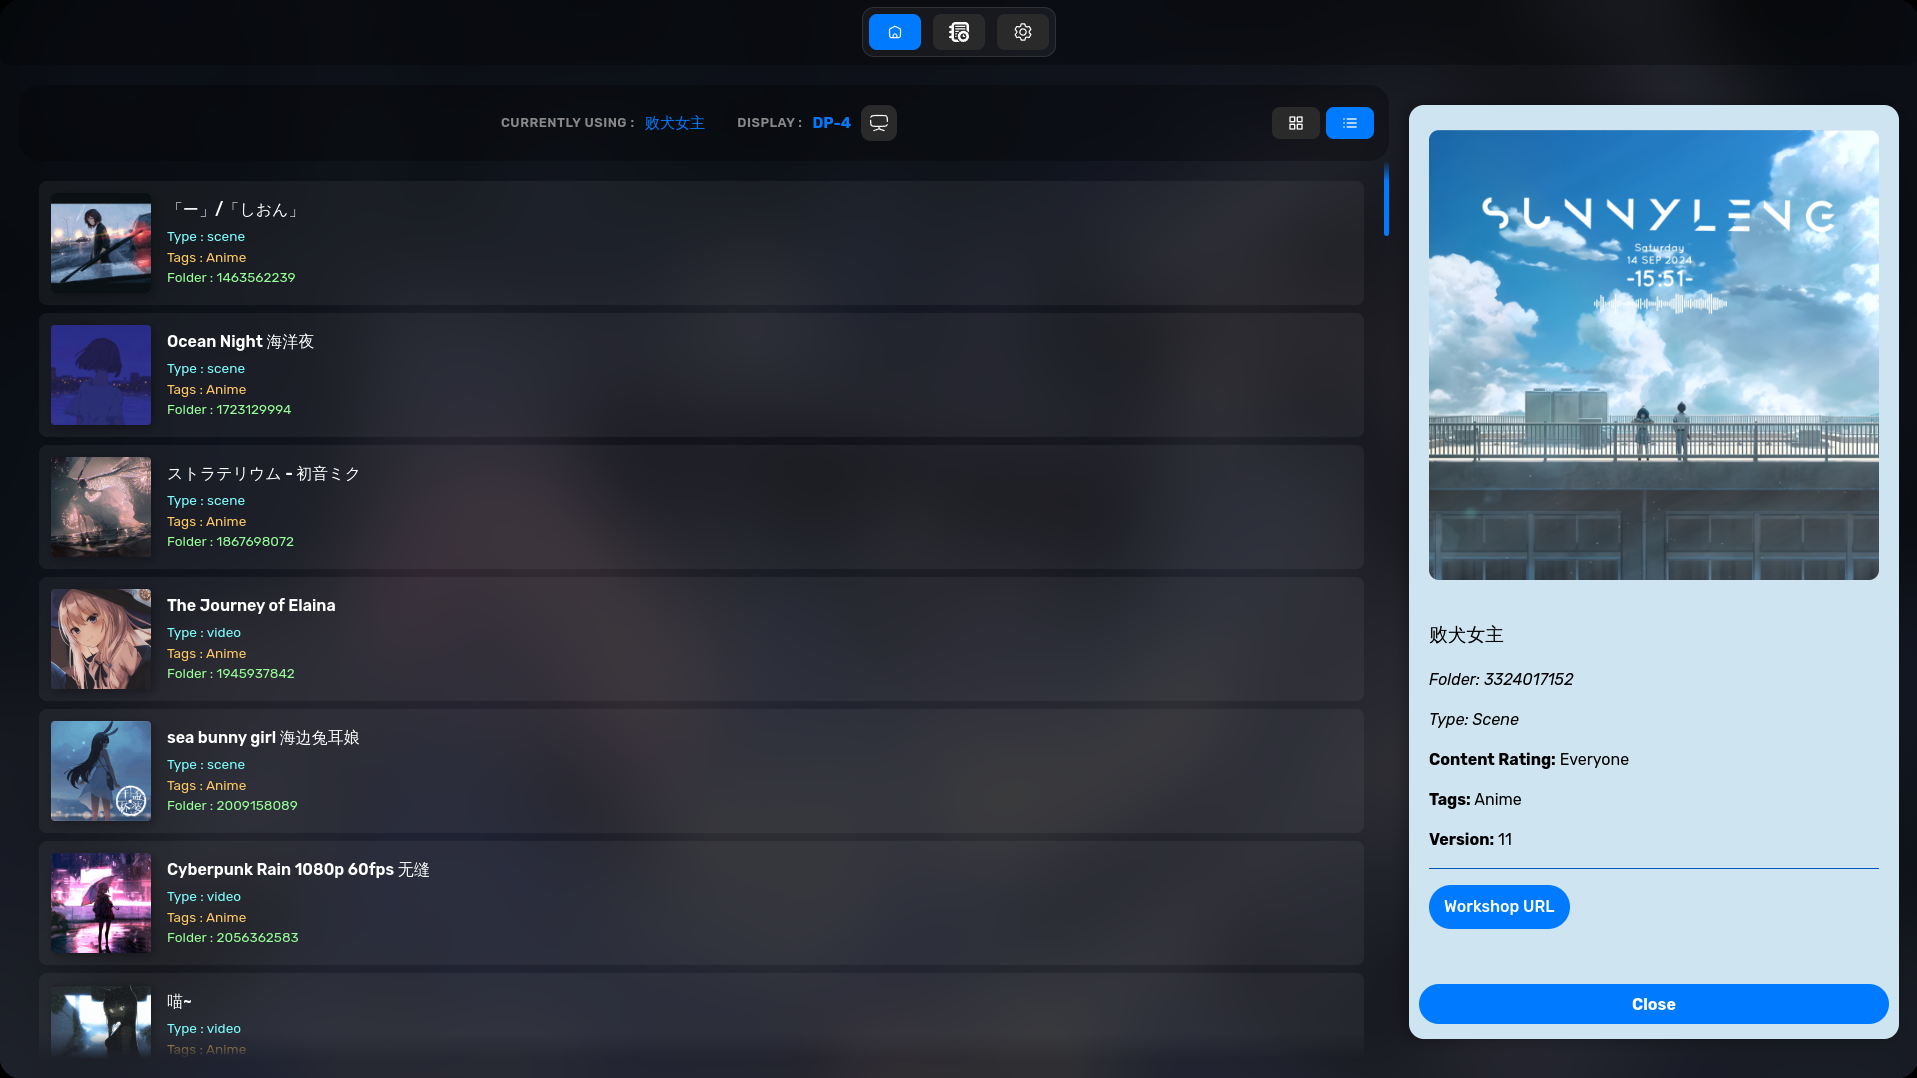
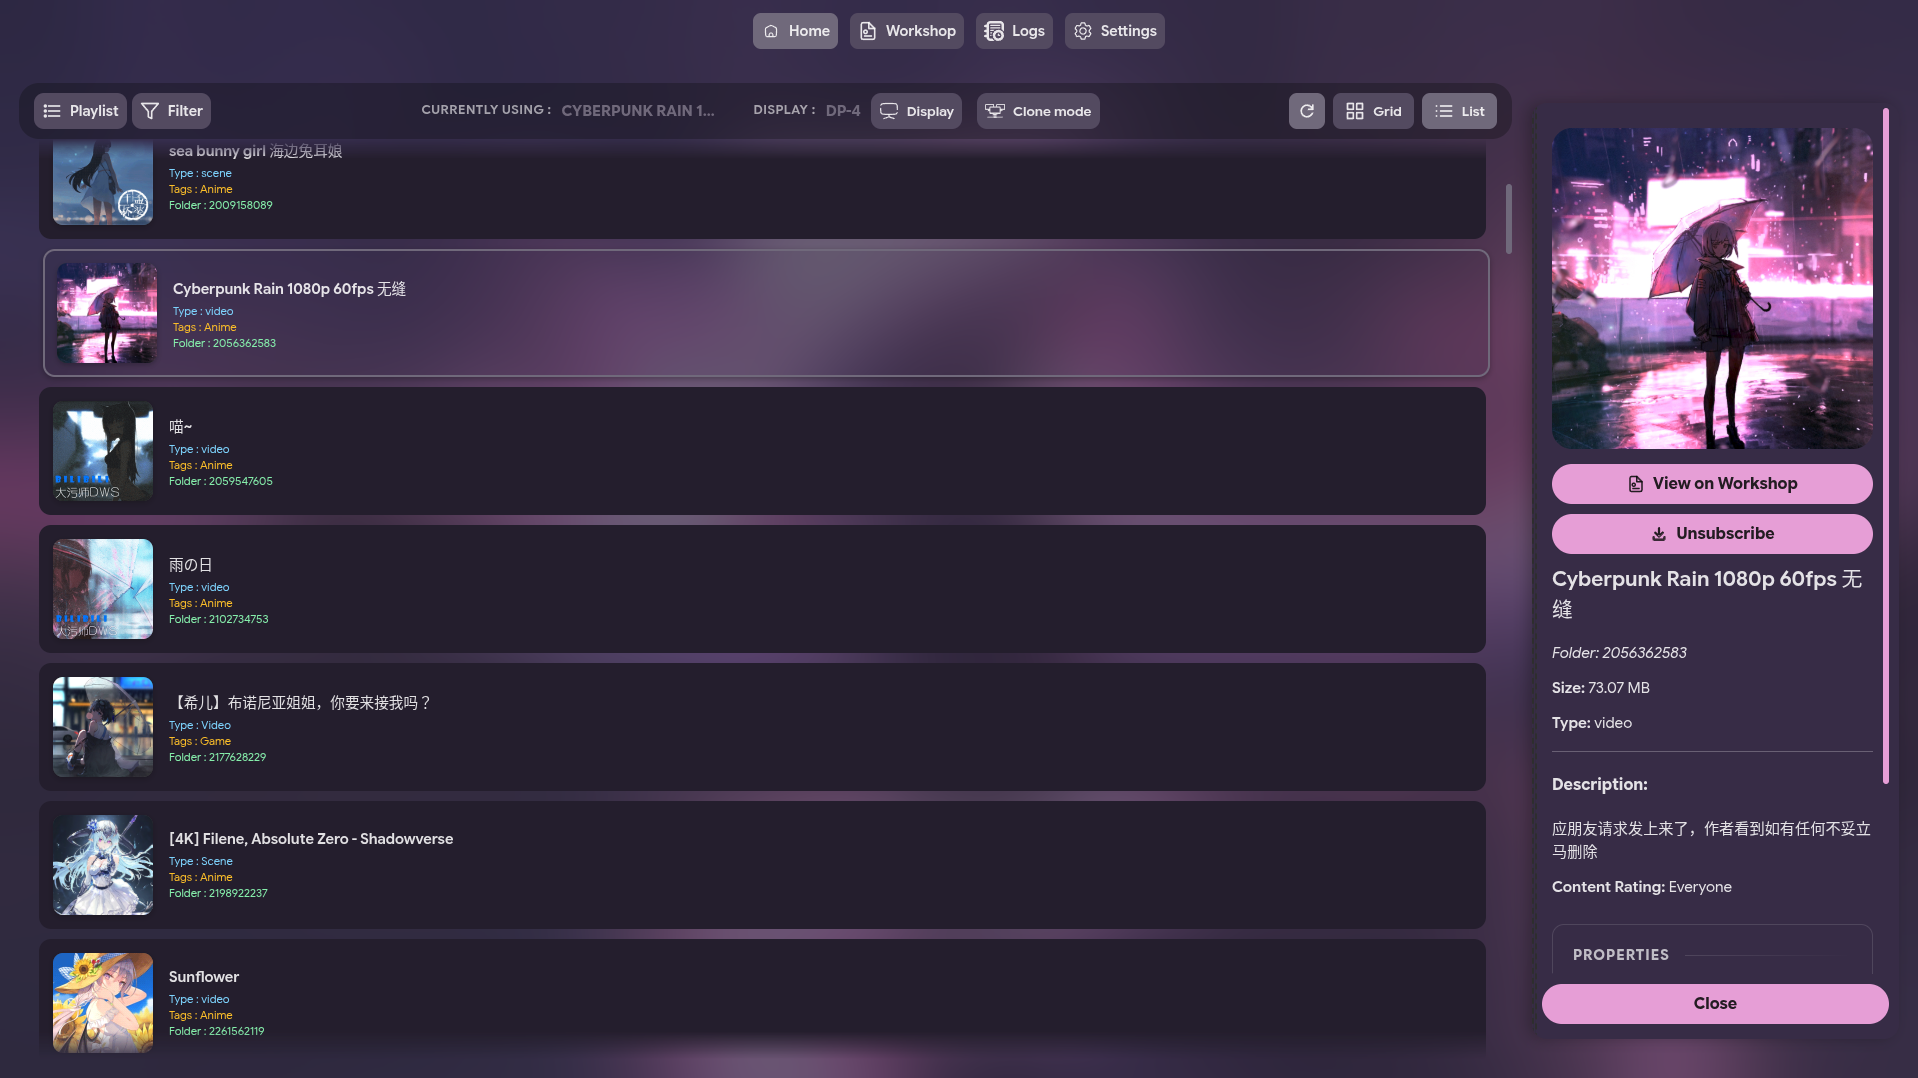
feat: Refine downloaded status class for workshop items and update README with new playlist and workshop download screenshots and feature descriptions.

diff --git a/src/frontend/svelte/components/wallpaper/WallpaperListItem.svelte b/src/frontend/svelte/components/wallpaper/WallpaperListItem.svelte
@@ -49,7 +49,7 @@
 	class="item-container"
 	class:selected
 	class:in-playlist={inPlaylist}
-	class:is-downloaded={isDownloaded}
+	class:is-downloaded={isWorkshop && isDownloaded}
 	on:click={() => onSelect(folderName, wallpaper)}
 	aria-pressed={selected}
 	in:scale={{ start: 0.95, duration: 200, easing: backOut }}

diff --git a/src/frontend/svelte/components/wallpaper/WallpaperItem.svelte b/src/frontend/svelte/components/wallpaper/WallpaperItem.svelte
@@ -59,7 +59,7 @@
 	class="wallpaper-item"
 	class:selected
 	class:in-playlist={inPlaylist}
-	class:is-downloaded={isDownloaded}
+	class:is-downloaded={isWorkshop && isDownloaded}
 	aria-pressed={selected}
 	on:click={() => onSelect(folderName, wallpaper)}
 	style="animation-delay: {10 + index * 50}ms"

diff --git a/README.md b/README.md
@@ -35,10 +35,10 @@
 - [MEMORY EFFICIENCY](#memory-efficiency)
 - [PREREQUISITES](#prerequisites)
 - [INSTALLATION](#installation)
-     - [Arch Linux (AUR)](#arch-linux-aur)
-     - [Other Distributions](#other-distributions)
+  - [Arch Linux (AUR)](#arch-linux-aur)
+  - [Other Distributions](#other-distributions)
 - [USAGE](#usage)
-     - [\[Options\]](#options)
+  - [\[Options\]](#options)
 - [BUILD FROM SOURCE](#build-from-source)
 - [DEVELOPMENT](#development)
 - [CONTRIBUTING](#contributing)
@@ -51,30 +51,42 @@
 
 ## SCREENSHOTS
 
-|            Main Window            |
-| :-------------------------------: |
+|           Main Window           |
+| :-----------------------------: |
 | ![Main Window](showcase/main.png) |
 
-|           Main Window (List)           |
-| :------------------------------------: |
+|          Main Window (List)          |
+| :----------------------------------: |
 | ![Main Window](showcase/main-list.png) |
 
-|         Display Settings         |
-| :------------------------------: |
+|        Display Settings        |
+| :----------------------------: |
 | ![Details](showcase/display.png) |
 
-| WORKSHOP (Can only search for now) |
-| :--------------------------------: |
-| ![Details](showcase/workshop.png)  |
+|            WORKSHOP            |
+| :-----------------------------: |
+| ![Details](showcase/workshop.png) |
 
-|                Settings                |
-| :------------------------------------: |
+|          PLAYLIST          |
+| :--------------------------------------: |
+| ![Details](showcase/playlist.png) |
+
+|          PLAYLIST - SETTING          |
+| :--------------------------------------: |
+| ![Details](showcase/playlist-setting.png) |
+
+|          WORKSHOP - DOWNLOADING          |
+| :--------------------------------------: |
+| ![Details](showcase/workshop-download.jpg) |
+
+|               Settings               |
+| :----------------------------------: |
 | ![Select Screen](showcase/setting.png) |
 
 ## FEATURES
 
 - **Wallpaper Management** – Browse and select wallpapers from your Steam Workshop content with ease.
-- **Steam Workshop Integration** – Search for new wallpapers directly from the Steam Workshop (requires a Steam API Key).
+- **Steam Workshop Integration** – Search and download wallpapers directly from the Steam Workshop (requires steam running on background).
 - **Playlist Support** – Create and manage playlists, including a dynamic "Random All" playlist that automatically includes all your wallpapers.
 - **Wallpaper Properties** – Adjust individual wallpaper settings.
 - **Multi-Monitor Support** – Effortlessly choose which screen to apply wallpapers.
@@ -136,24 +148,22 @@ linux-wallpaperengine-gui [options]
 
 1. **Clone & Enter:**
 
-     ```bash
-     git clone https://github.com/AzPepoze/linux-wallpaperengine-gui
-     cd linux-wallpaperengine-gui
-     ```
-
+   ```bash
+   git clone https://github.com/AzPepoze/linux-wallpaperengine-gui
+   cd linux-wallpaperengine-gui
+   ```
 2. **Install Deps:**
 
-     ```bash
-     pnpm install
-     ```
-
+   ```bash
+   pnpm install
+   ```
 3. **Build:**
 
-     ```bash
-     pnpm run build
-     ```
+   ```bash
+   pnpm run build
+   ```
 
-     The output will be in the `dist` directory.
+   The output will be in the `dist` directory.
 
 ## DEVELOPMENT
 
